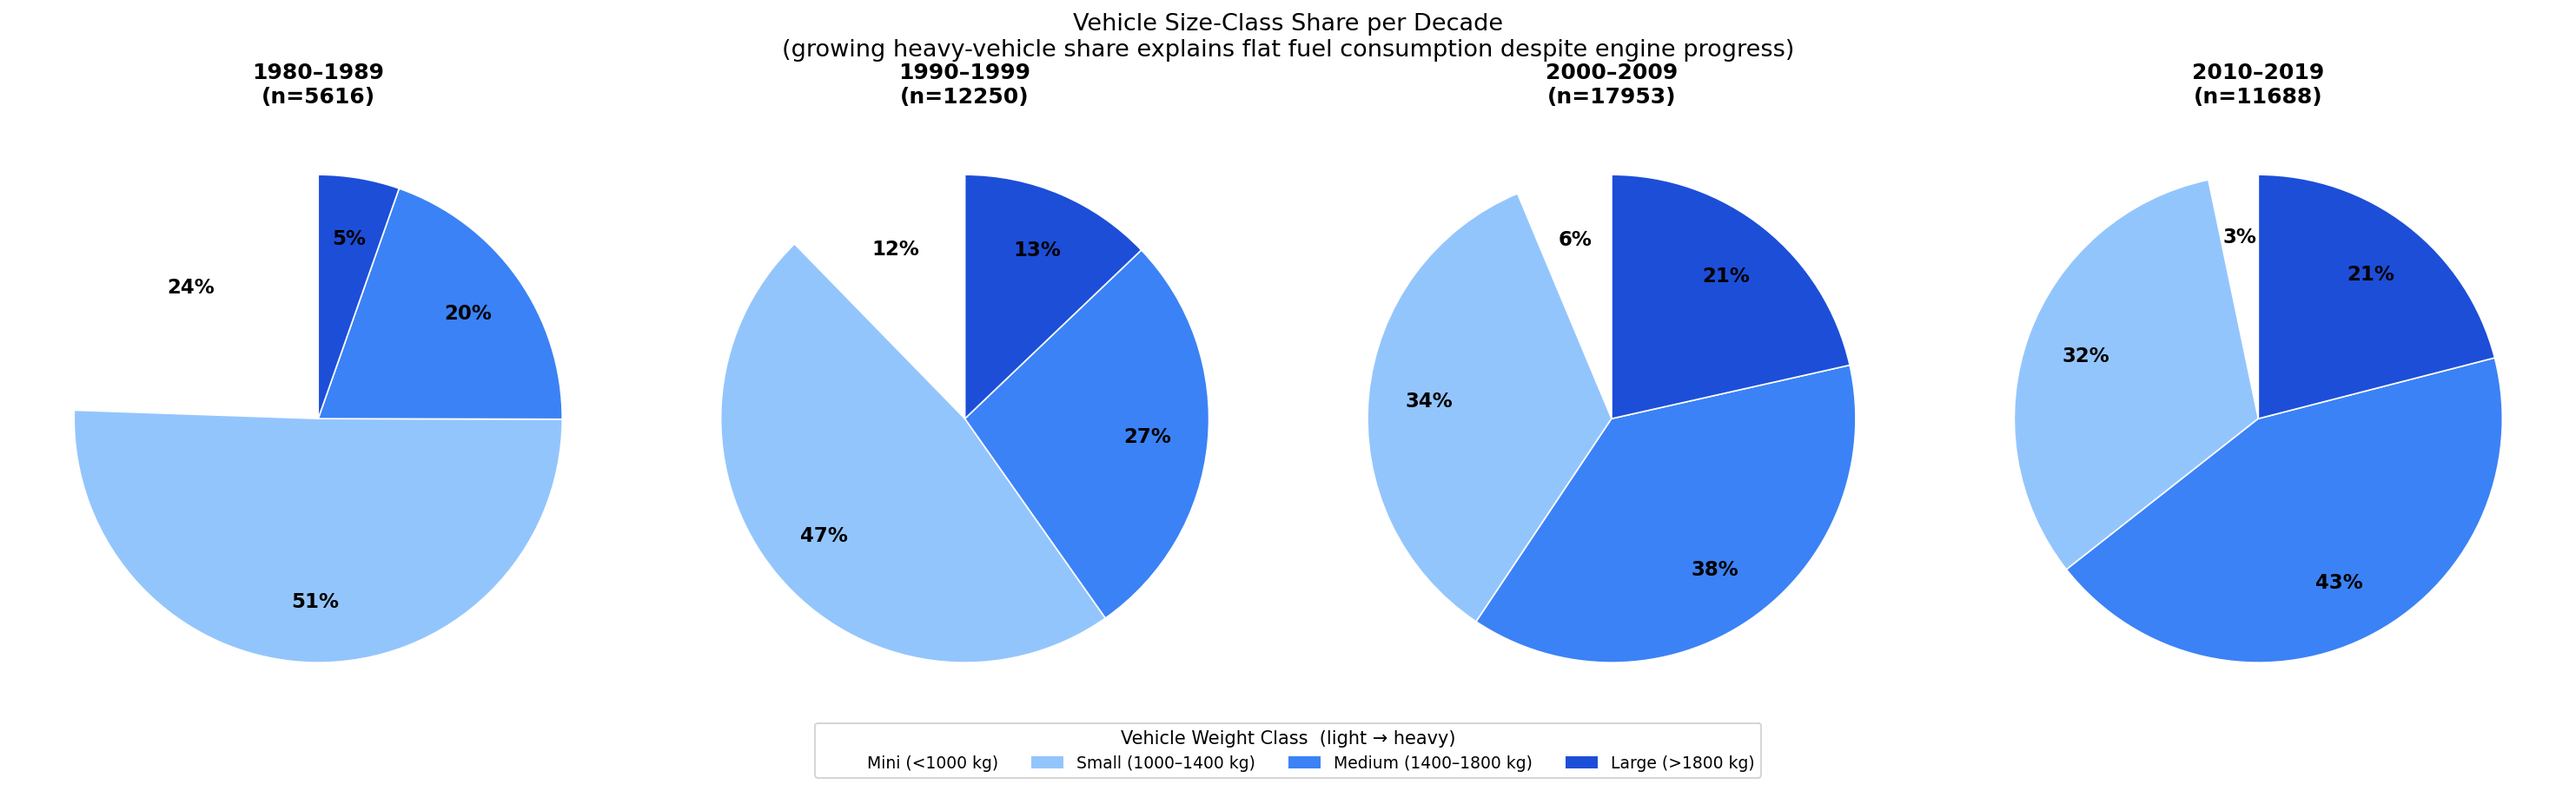
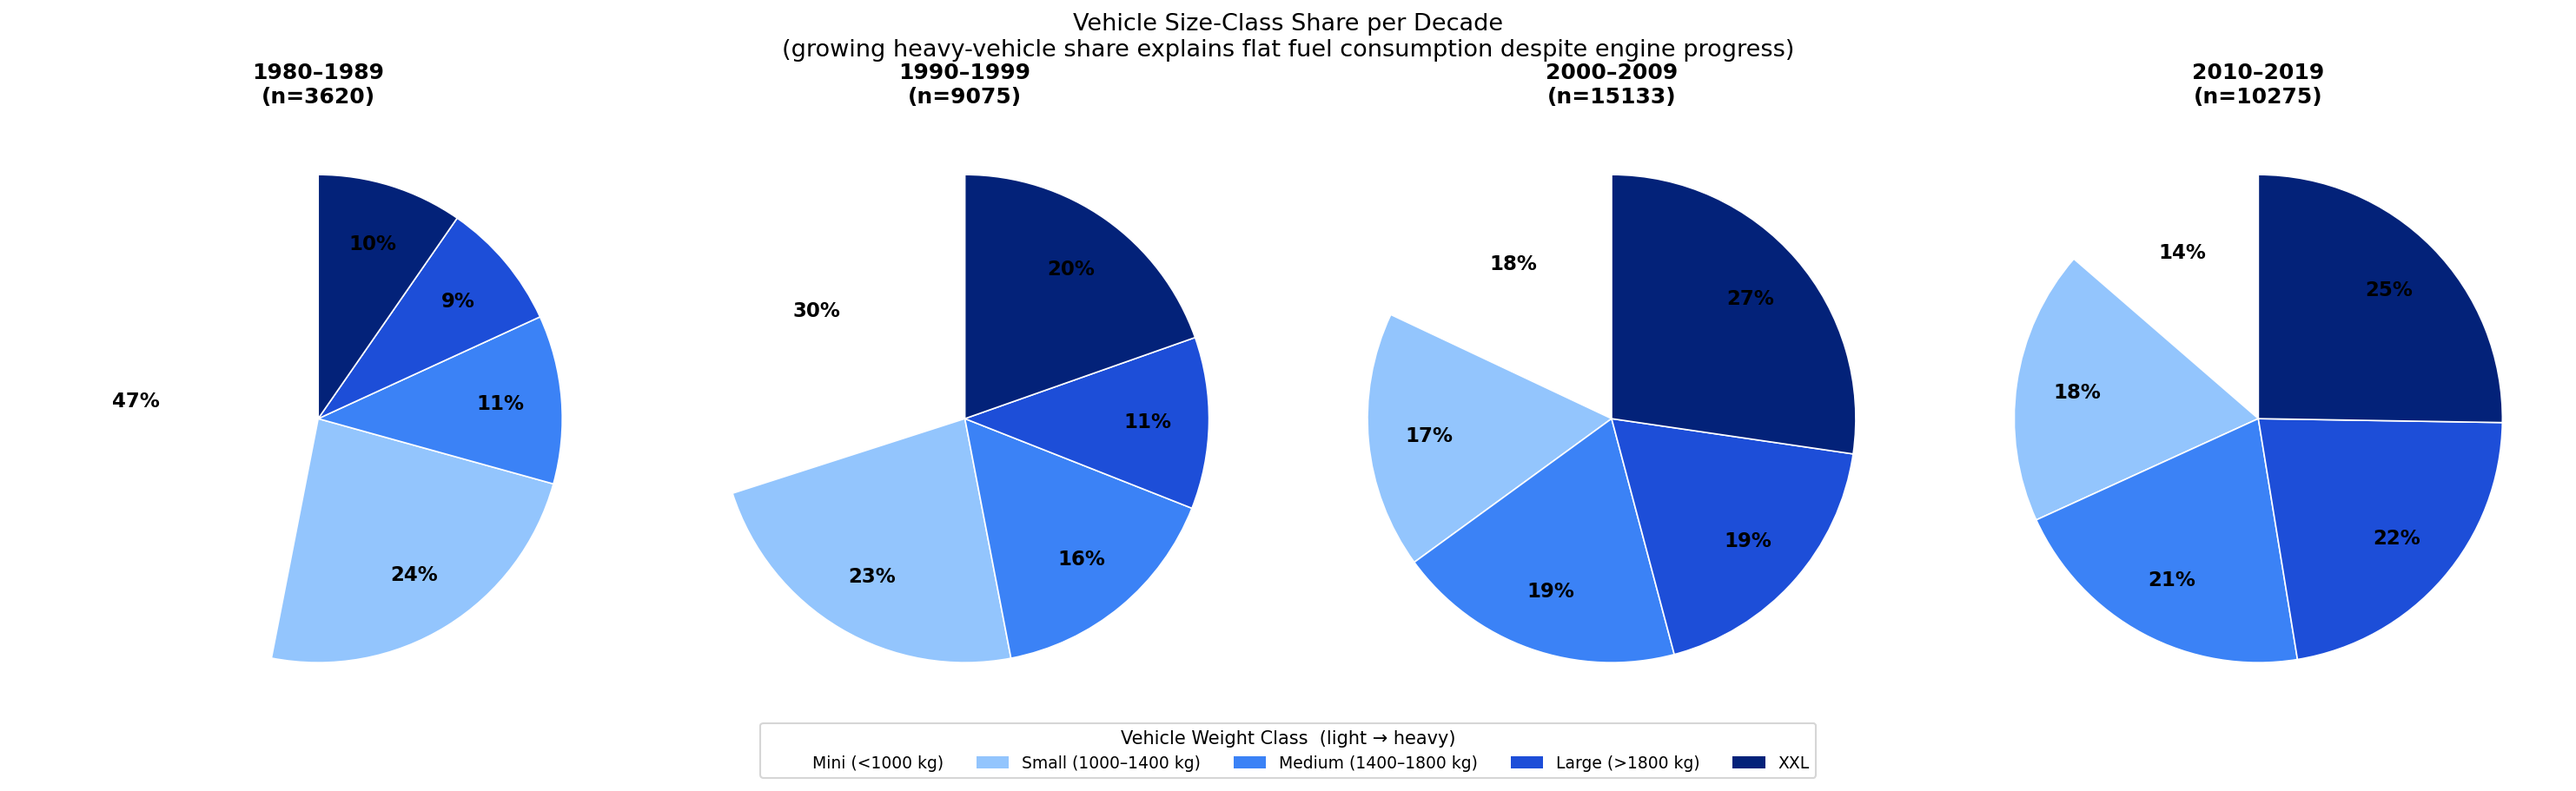
chart is great

diff --git a/u1_plots-3.py b/u1_plots-3.py
@@ -296,16 +296,17 @@ SIZE_LABELS = [
     "Small (1000–1400 kg)",
     "Medium (1400–1800 kg)",
     "Large (>1800 kg)",
+    "XXL"
 ]
 
 # Single sequential palette: white → dark blue (light → heavy)
-SIZE_COLORS = ["#ffffff", "#93c5fd", "#3b82f6", "#1d4ed8"]
+SIZE_COLORS = ["#ffffff", "#93c5fd", "#3b82f6", "#1d4ed8" ,"#032279"]
 color_map = dict(zip(SIZE_LABELS, SIZE_COLORS))
 
 # Derive size bucket from curb weight
 df["_size_class"] = pd.cut(
-    df["curb_weight_kg"],
-    bins=[0, 1000, 1400, 1800, 99999],
+    df["full_weight_kg"],
+    bins=[0, 1655, 1870, 2050, 2310, 99999],
     labels=SIZE_LABELS,
 )
 size_col = "_size_class"
